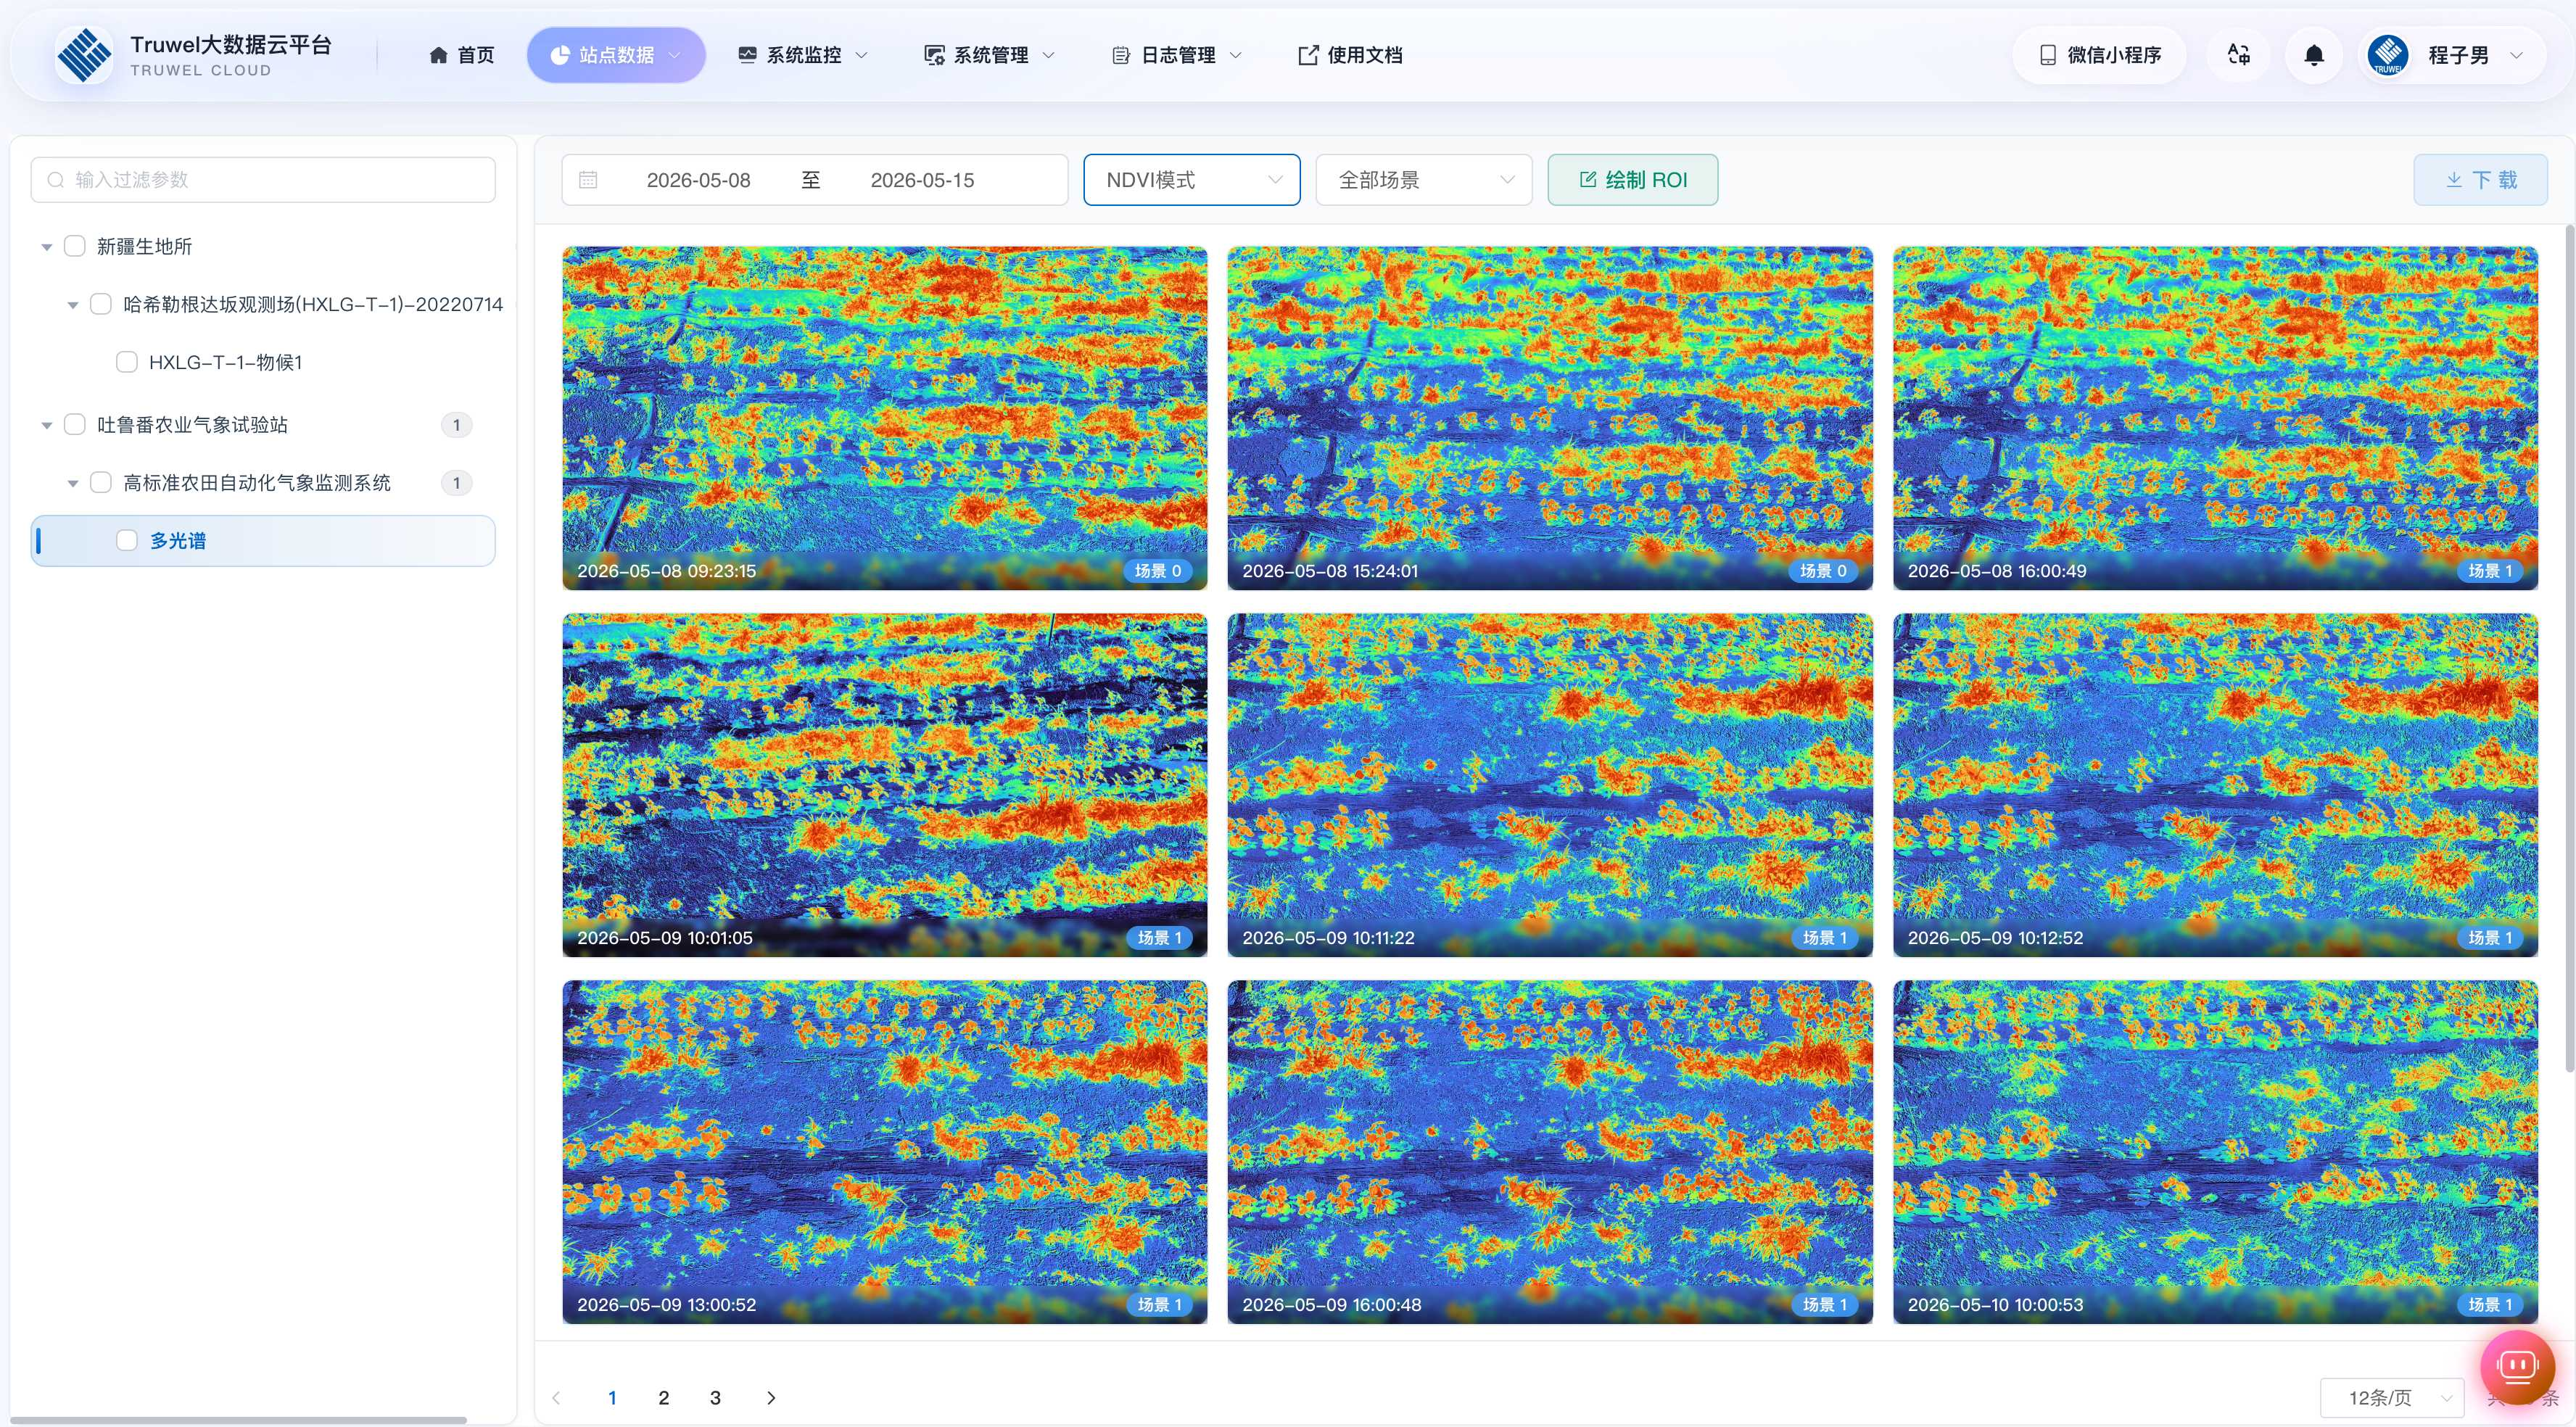
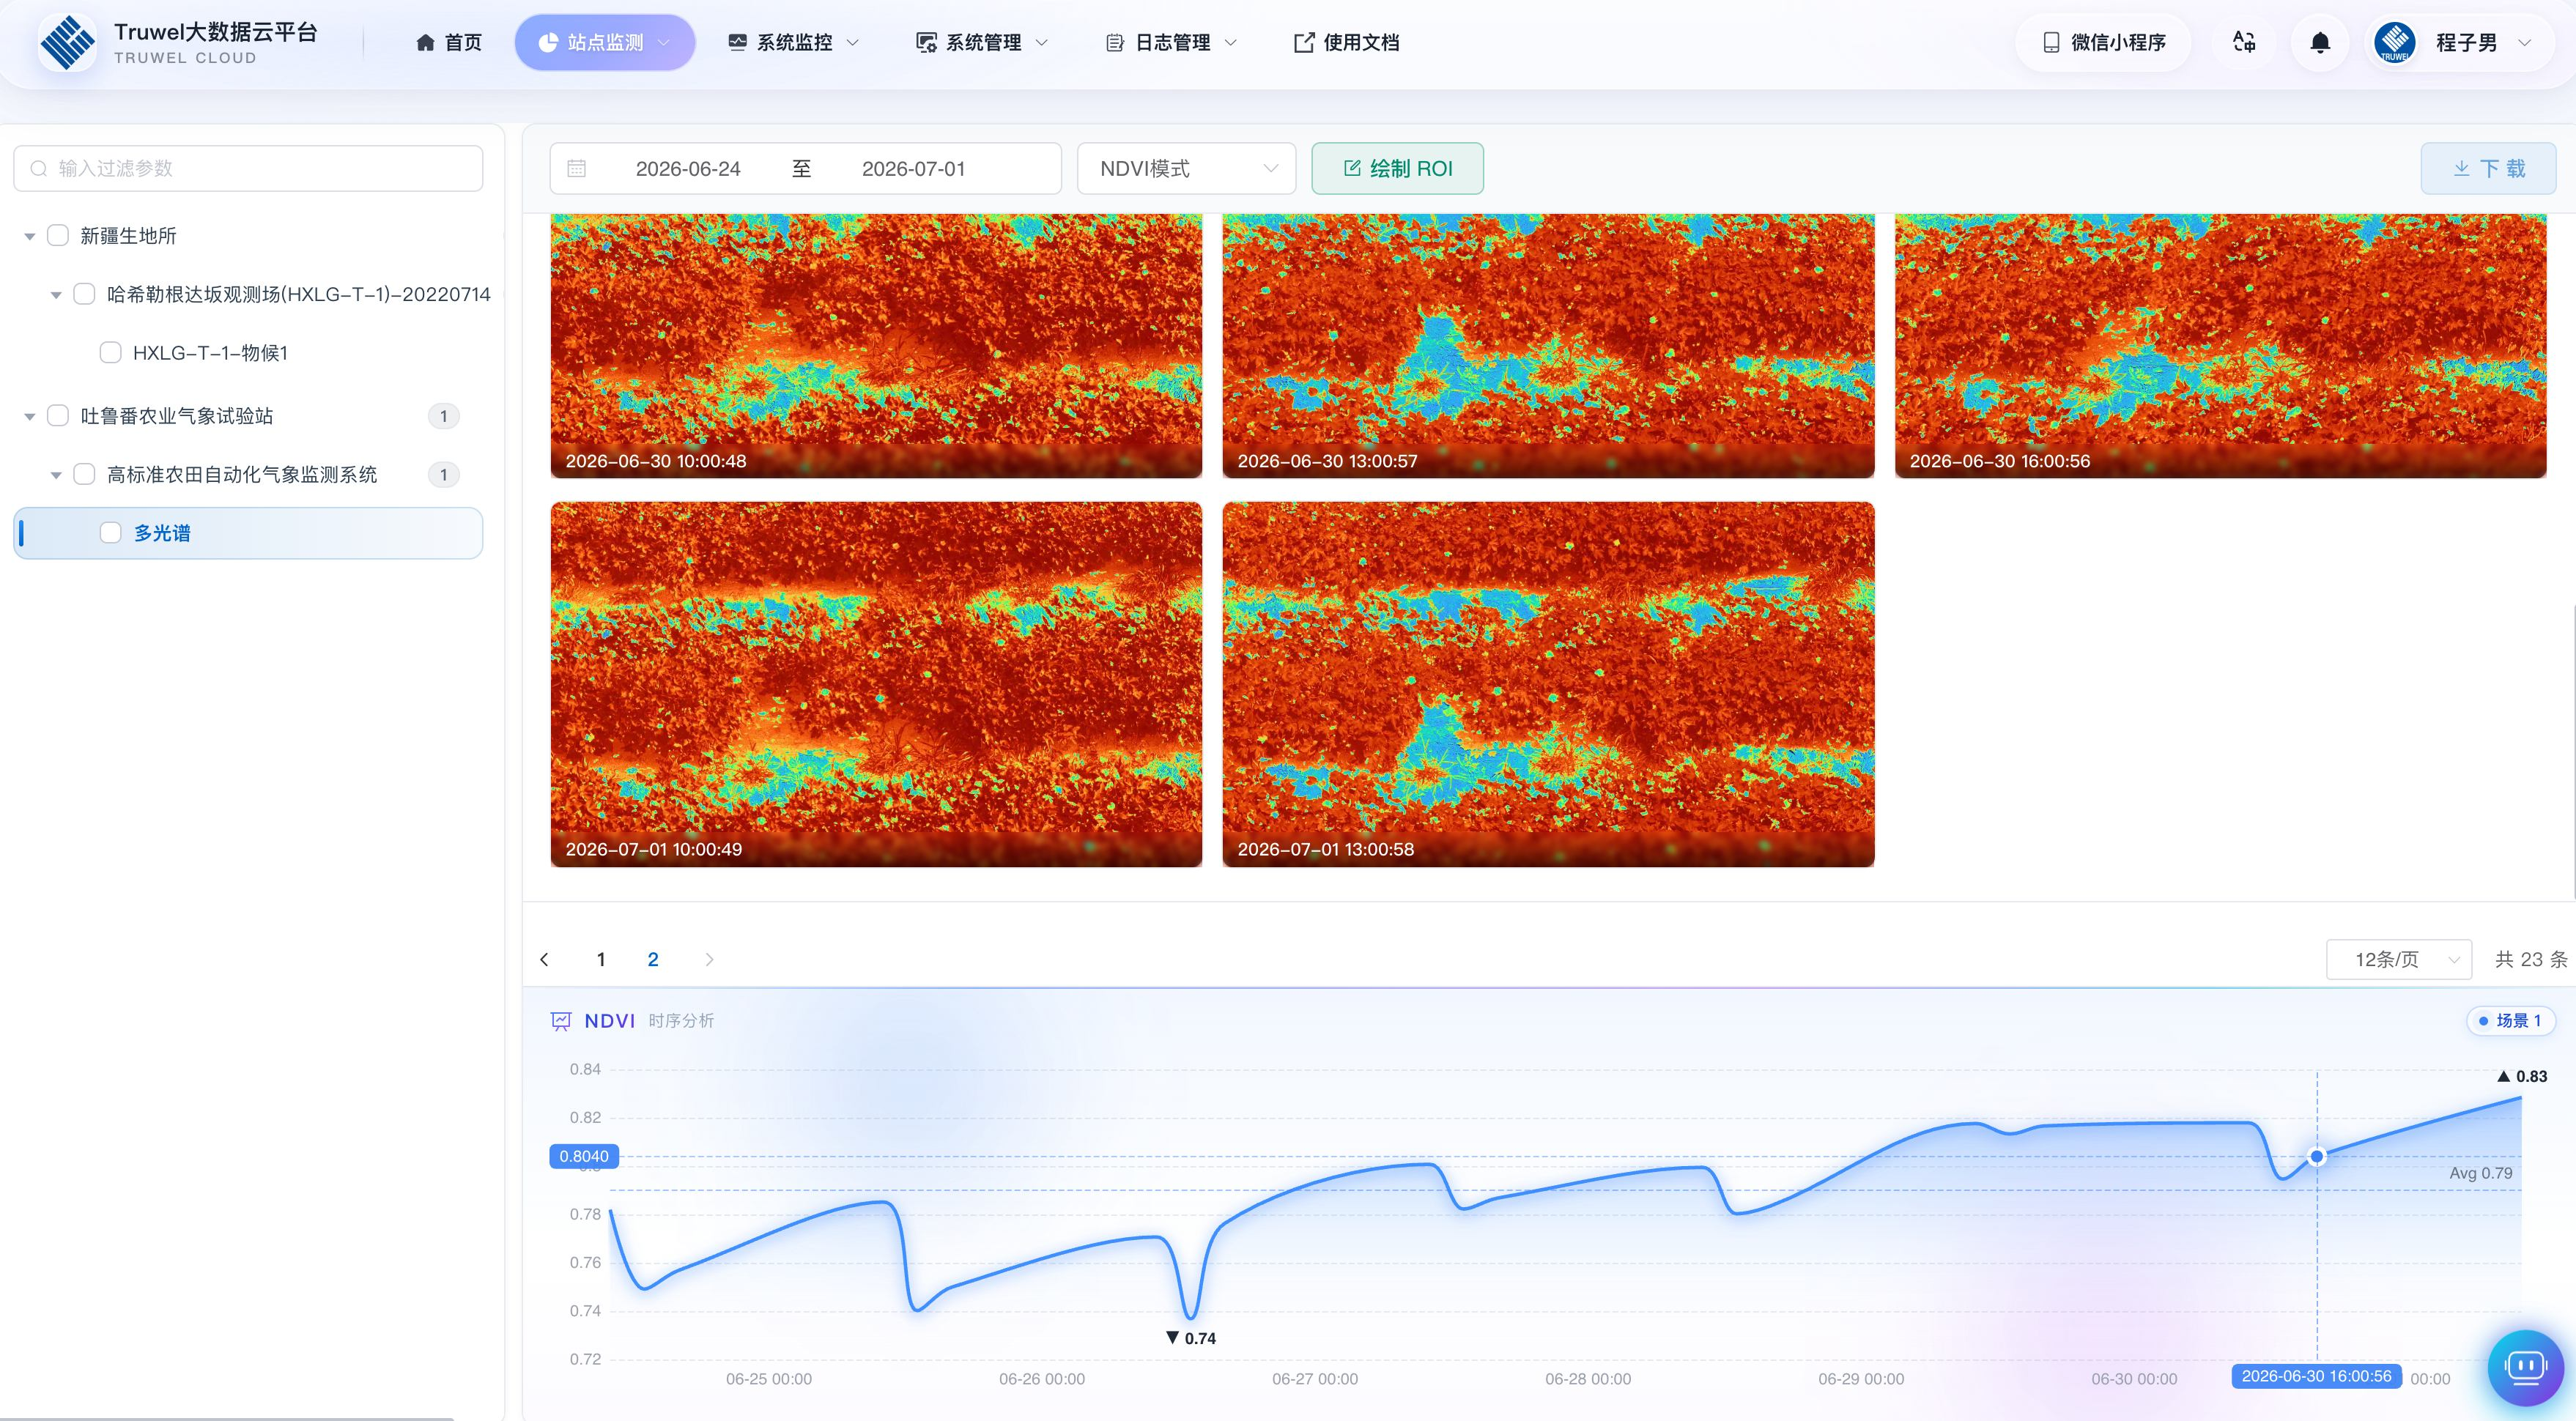
feat: logger device

diff --git a/docs/.vuepress/styles/index.css b/docs/.vuepress/styles/index.css
@@ -1,3 +1,84 @@
+/* ===================================================================
+ * TruwelCloud Docs — 自定义样式增强
+ * 品牌主色: #5D67E8
+ * 目标: 在不改动主题的前提下, 优化图片、卡片、引用块等的视觉与交互
+ * =================================================================== */
+
+:root {
+  --tw-brand: #5d67e8;
+  --tw-brand-rgb: 93, 103, 232;
+  --tw-radius: 12px;
+  --tw-ease: cubic-bezier(0.22, 1, 0.36, 1);
+}
+
 html {
-    height: 100%;
+  height: 100%;
+  scroll-behavior: smooth;
+}
+
+/* ---------- 正文图片: 圆角、柔和阴影与悬停微交互 ---------- */
+.theme-reco-default-content img {
+  border-radius: var(--tw-radius);
+  box-shadow: 0 6px 20px rgba(17, 24, 39, 0.08);
+  transition: transform 0.35s var(--tw-ease), box-shadow 0.35s var(--tw-ease);
+}
+
+.theme-reco-default-content img:hover {
+  transform: translateY(-4px) scale(1.01);
+  box-shadow: 0 14px 36px rgba(var(--tw-brand-rgb), 0.22);
+}
+
+html.dark .theme-reco-default-content img {
+  box-shadow: 0 6px 20px rgba(0, 0, 0, 0.45);
+}
+
+/* ---------- 引用块 / 提示: 品牌色左边框与淡底 ---------- */
+.theme-reco-default-content blockquote {
+  border-left: 4px solid var(--tw-brand);
+  border-radius: 0 8px 8px 0;
+  background: rgba(var(--tw-brand-rgb), 0.06);
+  padding: 0.8em 1em;
+}
+
+html.dark .theme-reco-default-content blockquote {
+  background: rgba(var(--tw-brand-rgb), 0.12);
+}
+
+/* ---------- 首页特性卡片: 悬停浮起与品牌色描边 ---------- */
+.features__container .features__item {
+  border: 1px solid rgba(var(--tw-brand-rgb), 0.08);
+  border-radius: 14px;
+  transition: transform 0.3s var(--tw-ease), box-shadow 0.3s var(--tw-ease),
+    border-color 0.3s var(--tw-ease);
+}
+
+.features__container .features__item:hover {
+  transform: translateY(-6px);
+  border-color: rgba(var(--tw-brand-rgb), 0.35);
+  box-shadow: 0 16px 40px rgba(var(--tw-brand-rgb), 0.14);
+}
+
+.features__container .features__item h4 {
+  transition: color 0.3s var(--tw-ease);
+}
+
+.features__container .features__item:hover h4 {
+  color: var(--tw-brand);
+}
+
+/* ---------- 首页横幅按钮: 悬停平滑上浮 ---------- */
+.banner-brand__content .btn-group .xicon-container {
+  transition: transform 0.25s var(--tw-ease), box-shadow 0.25s var(--tw-ease);
+}
+
+.banner-brand__content .btn-group .xicon-container:hover {
+  transform: translateY(-2px);
+  box-shadow: 0 8px 20px rgba(var(--tw-brand-rgb), 0.28);
+}
+
+/* ---------- 正文标题: 悬停显示品牌色锚点 (与主题一致的过渡) ---------- */
+.theme-reco-default-content h2,
+.theme-reco-default-content h3,
+.theme-reco-default-content h4 {
+  scroll-margin-top: 5rem;
 }

diff --git a/docs/.vuepress/config/zh/series.ts b/docs/.vuepress/config/zh/series.ts
@@ -12,14 +12,13 @@ export const series = {
     {
       text: '指南',
       children: [
-        { text: 'AI分析', link: '/guide/chat' },
+        { text: 'AI 分析', link: '/guide/chat' },
         { text: '小程序', link: '/guide/wechat' },
         // { text: '注册', link: '/guide/register' },
         { text: '首页', link: '/guide/home' },
-        { text: '站点数据', link: '/guide/data' },
-        { text: '系统监控', link: '/guide/monitor' },
-        { text: '系统管理', link: '/guide/sys' },
-        { text: '日志管理', link: '/guide/log' }
+        { text: '站点监测', link: '/guide/data' },
+        // { text: '系统管理', link: '/guide/sys' },
+        // { text: '日志管理', link: '/guide/log' }
       ]
     },
     {

diff --git a/docs/guide/data.md b/docs/guide/data.md
@@ -1,12 +1,12 @@
 ---
-title: 站点数据
-order: 5
+title: 站点监测
+order: 4
 category:
 - 指南
-description: 站点数据
+description: 站点监测
 ---
 
-## 气象数据
+## 气象监测
 
 #### 数据图表
 
@@ -30,7 +30,11 @@ description: 站点数据
 
 > **提示：** 参数可以随意组合，支持跨站点数据分析
 
-### 物候数据
+### 数采设备
+
+<div align=center><img src="../_media/analysis_device.png" width="70%"/></div>
+
+### 物候监测
 
 <div align=center><img src="../_media/analysis_img_normal.jpg" width="50%"/><img src="../_media/analysis_img_roi.jpg" width="50%"/></div>
 
@@ -38,7 +42,7 @@ description: 站点数据
 
 > :camera: 目前支持`CCFC`、`NetCam`、`PhotoNet`、`HikVision`等市面主流物候相机
 
-### 点云数据
+### 点云监测
 
 <div align=center>
 <span style="width:50%;display:inline-block">
@@ -55,14 +59,14 @@ description: 站点数据
 
 > :cloud: 目前仅支持`LAS`格式点云
 
-### 视频监控
+### 视频监测
 
 <div align=center><img src="../_media/analysis_video.png" width="50%"/></div>
 
 > **提示：** 可一、四、九分屏展示
 
 
-### 数据管理
+### 数据下载
 
 <div align=center>
 <span style="width:50%;display:inline-block">
@@ -97,6 +101,15 @@ description: 站点数据
 </div>
 
 > **提示：** 可按周、月和季度定时生成:page_facing_up:
+
+### 传输监测
+
+<div align=center><img src="../_media/monitor_transmit.jpg" width="70%"/></div>
+
+对数据传输状态进行实时监控
+
+> 1. 蓝色 → 正常
+> 2. 红色 → 离线
 
 ### 系统详情
 

diff --git a/docs/README.md b/docs/README.md
@@ -8,8 +8,8 @@ modules:
 bannerBrand:
   bgImage: '/bg.svg'
   title: Truwel Cloud 2.0
-  description: 专业的气象物联网SAAS大数据AI平台
-  tagline: 合作伙伴:中国林业科学研究院、中国科学院新疆生态与地理研究所、中国科学院青藏高原研究所、中国生态系统研究网络(CERN)...
+  description: 专业的气象物联网 SaaS 大数据 AI 平台
+  tagline: 合作伙伴:中国林业科学研究院、中国科学院新疆生态与地理研究所、中国科学院青藏高原研究所、中国生态系统研究网络（CERN）...
   buttons:
     - { text: 快速体验, link: 'https://www.truwelcloud.com' }
     - { text: '使用指南', link: '/truwelcloud-docs/introduction/about', type: 'plain' }
@@ -19,7 +19,7 @@ isShowTitleInHome: true
 actionText: About
 actionLink: /views/other/about
 features:
-  - title: AI分析
+  - title: AI 分析
     details: 通过大语言模型帮助科研人员进行数据挖掘、数据预测
     
   - title: 大数据
@@ -29,7 +29,7 @@ features:
     details: 水文、积雪、土壤、大气、生物...各种数据全都支持
 
   - title: 视频图像
-    details: 完美兼容GB/T28181相机、物候相机接入、回看、云存储等功能
+    details: 完美兼容 GB/T28181 相机、物候相机接入、回看、云存储等功能
 
   - title: 可视化
     details: 二三维地图、GIS、图表展示应有尽有
@@ -44,13 +44,17 @@ footer:
 
 ## 更新日志
 
+### 2.7.0
+
+- [x] 支持 DL800、Campbell 数采管理
+
 ### 2.6.0
 
 - [x] UI 全面升级
 
 ### 2.5.0
 
-- [x] 支持自研DL800数据接入
+- [x] 支持自研 DL800 数据接入
 
 ### 2.4.0
 
@@ -58,7 +62,7 @@ footer:
 
 ### 2.3.0
 
-- [x] 正式接入**DeepSeek**实现对话即服务
+- [x] 正式接入 **DeepSeek** 实现对话即服务
 
 ### 2.2.0
 
@@ -66,7 +70,7 @@ footer:
 
 ### 2.1.0
 
-- [x] 支持CERN土壤水标准格式
+- [x] 支持 CERN 土壤水标准格式
 - [x] 支持区域土壤水标准格式
 - [x] 支持北斗三号数据接入
 

diff --git a/docs/release/log.md b/docs/release/log.md
@@ -6,13 +6,17 @@ category:
 description: TruwelCloud release log
 ---
 
+### 2.7.0
+
+- [x] 支持 DL800、Campbell 数采管理
+
 ### 2.6.0
 
 - [x] UI 全面升级
 
 ### 2.5.0
 
-- [x] 支持自研DL800数据接入
+- [x] 支持自研 DL800 数据接入
 
 ### 2.4.0
 
@@ -20,7 +24,7 @@ description: TruwelCloud release log
 
 ### 2.3.0
 
-- [x] 正式接入**DeepSeek**实现对话即服务
+- [x] 正式接入 **DeepSeek** 实现对话即服务
 
 ### 2.2.0
 
@@ -28,7 +32,7 @@ description: TruwelCloud release log
 
 ### 2.1.0
 
-- [x] 支持CERN土壤水标准格式
+- [x] 支持 CERN 土壤水标准格式
 - [x] 支持区域土壤水标准格式
 - [x] 支持北斗三号数据接入
 

diff --git a/docs/introduction/requirement.md b/docs/introduction/requirement.md
@@ -17,9 +17,9 @@ description: TruwelCloud 系统要求
 - 时序数据库 >= 3.4.0.0
 - 8GiB 内存
 - 5Mbps 带宽  
-- 4vCPU(2.55GHz 3.5 GHz)
-- 100GiB(ESSD PL0硬盘)
-- Windows Server >= 2016 or Ubuntu >= 22.04
+- 4vCPU(2.55GHz ~ 3.5GHz)
+- 100GiB(ESSD PL0 硬盘)
+- Ubuntu >= 22.04
 
 ## 浏览器支持
 

diff --git a/docs/introduction/about.md b/docs/introduction/about.md
@@ -20,9 +20,9 @@ description: TruwelCloud 主要特性是什么
 - <Badge text="支持国内外数采数据接入"/>
 - <Badge text="保证用户之间绝对的权限隔离"/>
 - <Badge text="支持物候照片及数据文件管理"/>
-- <Badge text="接入 Deepseek 实现对话即服务"/>
+- <Badge text="接入 DeepSeek 实现对话即服务"/>
 - <Badge text="应用接口符合 RESTful API 规范"/>
 - <Badge text="支持符合国标 GB28181 监控视频接入"/>
 - <Badge text="可部署在用户 Windows / Linux 服务器"/>
 - <Badge text="采用容器化、分布式、大数据架构体系构建"/>
-- <Badge text="支持 微信、QQ、钉钉、短信、邮件等多种方式的告警信息推送"/>
+- <Badge text="支持 微信、钉钉、短信、邮件等多种方式的告警信息推送"/>

diff --git a/docs/guide/chat.md b/docs/guide/chat.md
@@ -6,7 +6,7 @@ category:
 description: 大模型对话
 ---
 
-:robot: 依托**DeepSeek**卓越的意图识别与逻辑推理能力,用户只需像日常聊天般输入需求,系统即可自动解析、智能分析并精准输出结果,彻底简化复杂操作,释放科研潜能
+:robot: 依托**DeepSeek V4**卓越的意图识别与逻辑推理能力,用户只需像日常聊天般输入需求,系统即可自动解析、智能分析并精准输出结果,彻底简化复杂操作,释放科研潜能
 
 [//]: # (> :bar_chart: 未来将强化图表可视化功能)
 

diff --git a/docs/guide/home.md b/docs/guide/home.md
@@ -1,6 +1,6 @@
 ---
 title: 首页
-order: 4
+order: 3
 category:
 - 指南
 description: 首页介绍

diff --git a/docs/guide/log.md b/docs/guide/log.md
@@ -1,6 +1,6 @@
 ---
 title: 日志管理
-order: 8
+order: 6
 category:
 - 指南
 description: 日志管理

diff --git a/docs/guide/sys.md b/docs/guide/sys.md
@@ -1,6 +1,6 @@
 ---
 title: 系统管理
-order: 7
+order: 5
 category:
 - 指南
 description: 系统管理

diff --git a/docs/introduction/architecture.md b/docs/introduction/architecture.md
@@ -23,4 +23,4 @@ description: TruwelCloud 技术架构
 
 ## 存储
 
-采用分布式时序数据库和OSS分布式对象存储解决`海量`、`高频`数据问题,同时做到了`3备份`和高压缩率,保证数据可靠性
+采用分布式时序数据库和 OSS 分布式对象存储解决`海量`、`高频`数据问题,同时做到了`3备份`和高压缩率,保证数据可靠性